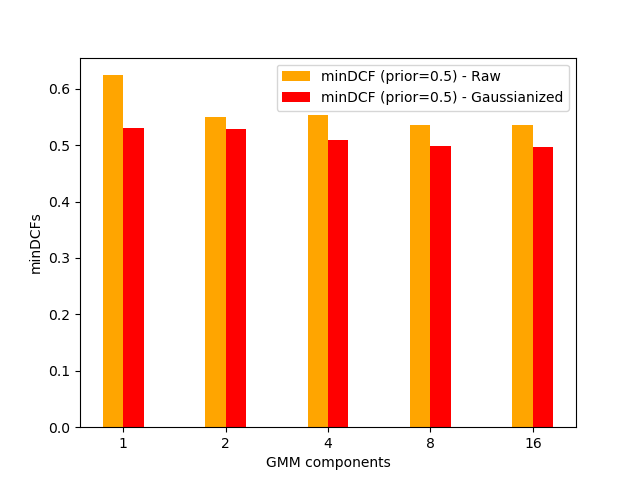
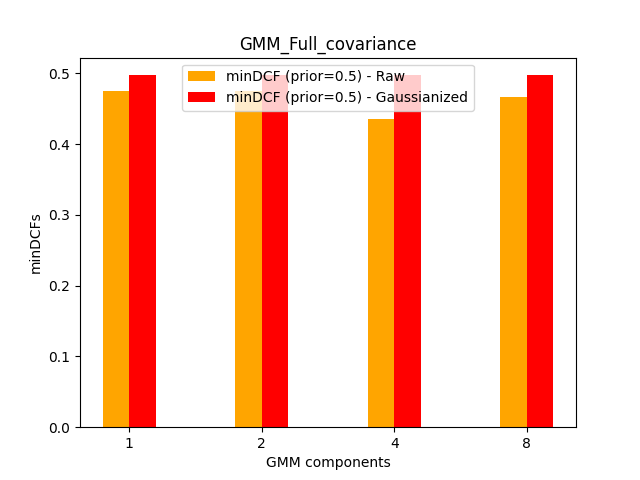
a

diff --git a/main.py b/main.py
@@ -767,7 +767,7 @@ def print_graphs_GMM_minDCF(DTR, LTR, k):
 
 
     def GMM_compute_DCFs(DTR, LTR, k, covariance_type, prior, cost_fn, cost_fp):
-        gmm_comp = [1,2,4,8,16,32,64]
+        gmm_comp = [1,2,4,8]
 
         raw_minDCFs = []
         gau_minDCFs = []
@@ -776,8 +776,8 @@ def print_graphs_GMM_minDCF(DTR, LTR, k):
         gaussianizedFeatures = gaussianization(DTR)
 
         constrained=True
-        psi=0.01
-        alpha=0.1
+        psi=1
+        alpha=0.0001
         delta_l=10**(-6)
     
         print("************************" + covariance_type + "*************************")
@@ -928,14 +928,16 @@ def print_treshold_estimated_table(data, LTR, prior, cost_fn, cost_fp, k, llr_ca
 
 
 def GMM_choosing_hyperparams(DTR, LTR, k, covariance_type, prior, cost_fn, cost_fp):
-    gmm_comp = 2
+    gmm_comp = 1
     normalized_features = Z_normalization(DTR)
     gaussianizedFeatures = gaussianization(DTR)
 
     constrained=True
-    psi_s=[0.00001, 0.0001, 0.001, 0.01, 0.1, 1, 10]
-    alpha_s=[0.0001, 0.001, 0.01, 0.1, 1, 10]
-    delta_l_s=[10**(-6), 10**(-5), 10**(-6), 10**(-5), 10**(-4), 10**(-3)]
+    psi_s=[0.000001, 0.00001, 0.0001, 0.001, 0.01, 0.1, 1, 10, 100, 1000]
+    alpha_s=[0.00001, 0.0001, 0.001, 0.01, 0.1, 1, 10, 100, 1000, 10000]
+    delta_l_s=[10**(-6), 10**(-7)]
+
+    optimal_result = []
     
     print("************************" + covariance_type + "*************************")
     for psi in psi_s:
@@ -951,7 +953,9 @@ def GMM_choosing_hyperparams(DTR, LTR, k, covariance_type, prior, cost_fn, cost_
                 print("psi: " + str(psi) + ", alpha: " + str(alpha) + ", delta_l: " + str(delta_l) + " -----> " + "RAW: " + str(raw_minDCFs_i))
                 print("psi: " + str(psi) + ", alpha: " + str(alpha) + ", delta_l: " + str(delta_l) + " -----> " + "GAU: " + str(gau_minDCFs_i))
 
-    return  
+                if(raw_minDCFs_i < 0.4 or gau_minDCFs_i < 0.4):
+                    optimal_result.append([raw_minDCFs_i, gau_minDCFs_i])
+    return optimal_result
                 
 
 
@@ -1134,26 +1138,22 @@ if __name__ == '__main__':
     
     #### Full Cov
     covariance_type = "Full"
-    GMM_choosing_hyperparams(DTR, LTR, k, covariance_type, 0.5, 1, 1)
-    #print("GMM_Full_covariance", raw_minDCFs, gau_minDCFs, gmm_comp)
+    print( GMM_choosing_hyperparams(DTR, LTR, k, covariance_type, 0.5, 1, 1))
 
-
+    '''
     #### Diagonal Cov
     covariance_type = "Diagonal"
-    GMM_choosing_hyperparams(DTR, LTR, k, covariance_type, 0.5, 1, 1)
-    #print("GMM_Diagonal_covariance", raw_minDCFs, gau_minDCFs, gmm_comp)
+    print(GMM_choosing_hyperparams(DTR, LTR, k, covariance_type, 0.5, 1, 1))
 
     #### Diagonal Cov
     covariance_type = "Tied"
-    GMM_choosing_hyperparams(DTR, LTR, k, covariance_type, 0.5, 1, 1)
-    #print("GMM_Tied_covariance", raw_minDCFs, gau_minDCFs, gmm_comp)
+    print(GMM_choosing_hyperparams(DTR, LTR, k, covariance_type, 0.5, 1, 1))
     
     #### Diagonal Cov
     covariance_type = "Tied Diagonal"
-    GMM_choosing_hyperparams(DTR, LTR, k, covariance_type, 0.5, 1, 1)
-    #print("GMM_Tied_Diagonal_covariance", raw_minDCFs, gau_minDCFs, gmm_comp)
-
-
+    print(GMM_choosing_hyperparams(DTR, LTR, k, covariance_type, 0.5, 1, 1))
+    '''
+    
     '''
     print_graphs_GMM_minDCF(DTR, LTR, k)
     '''
